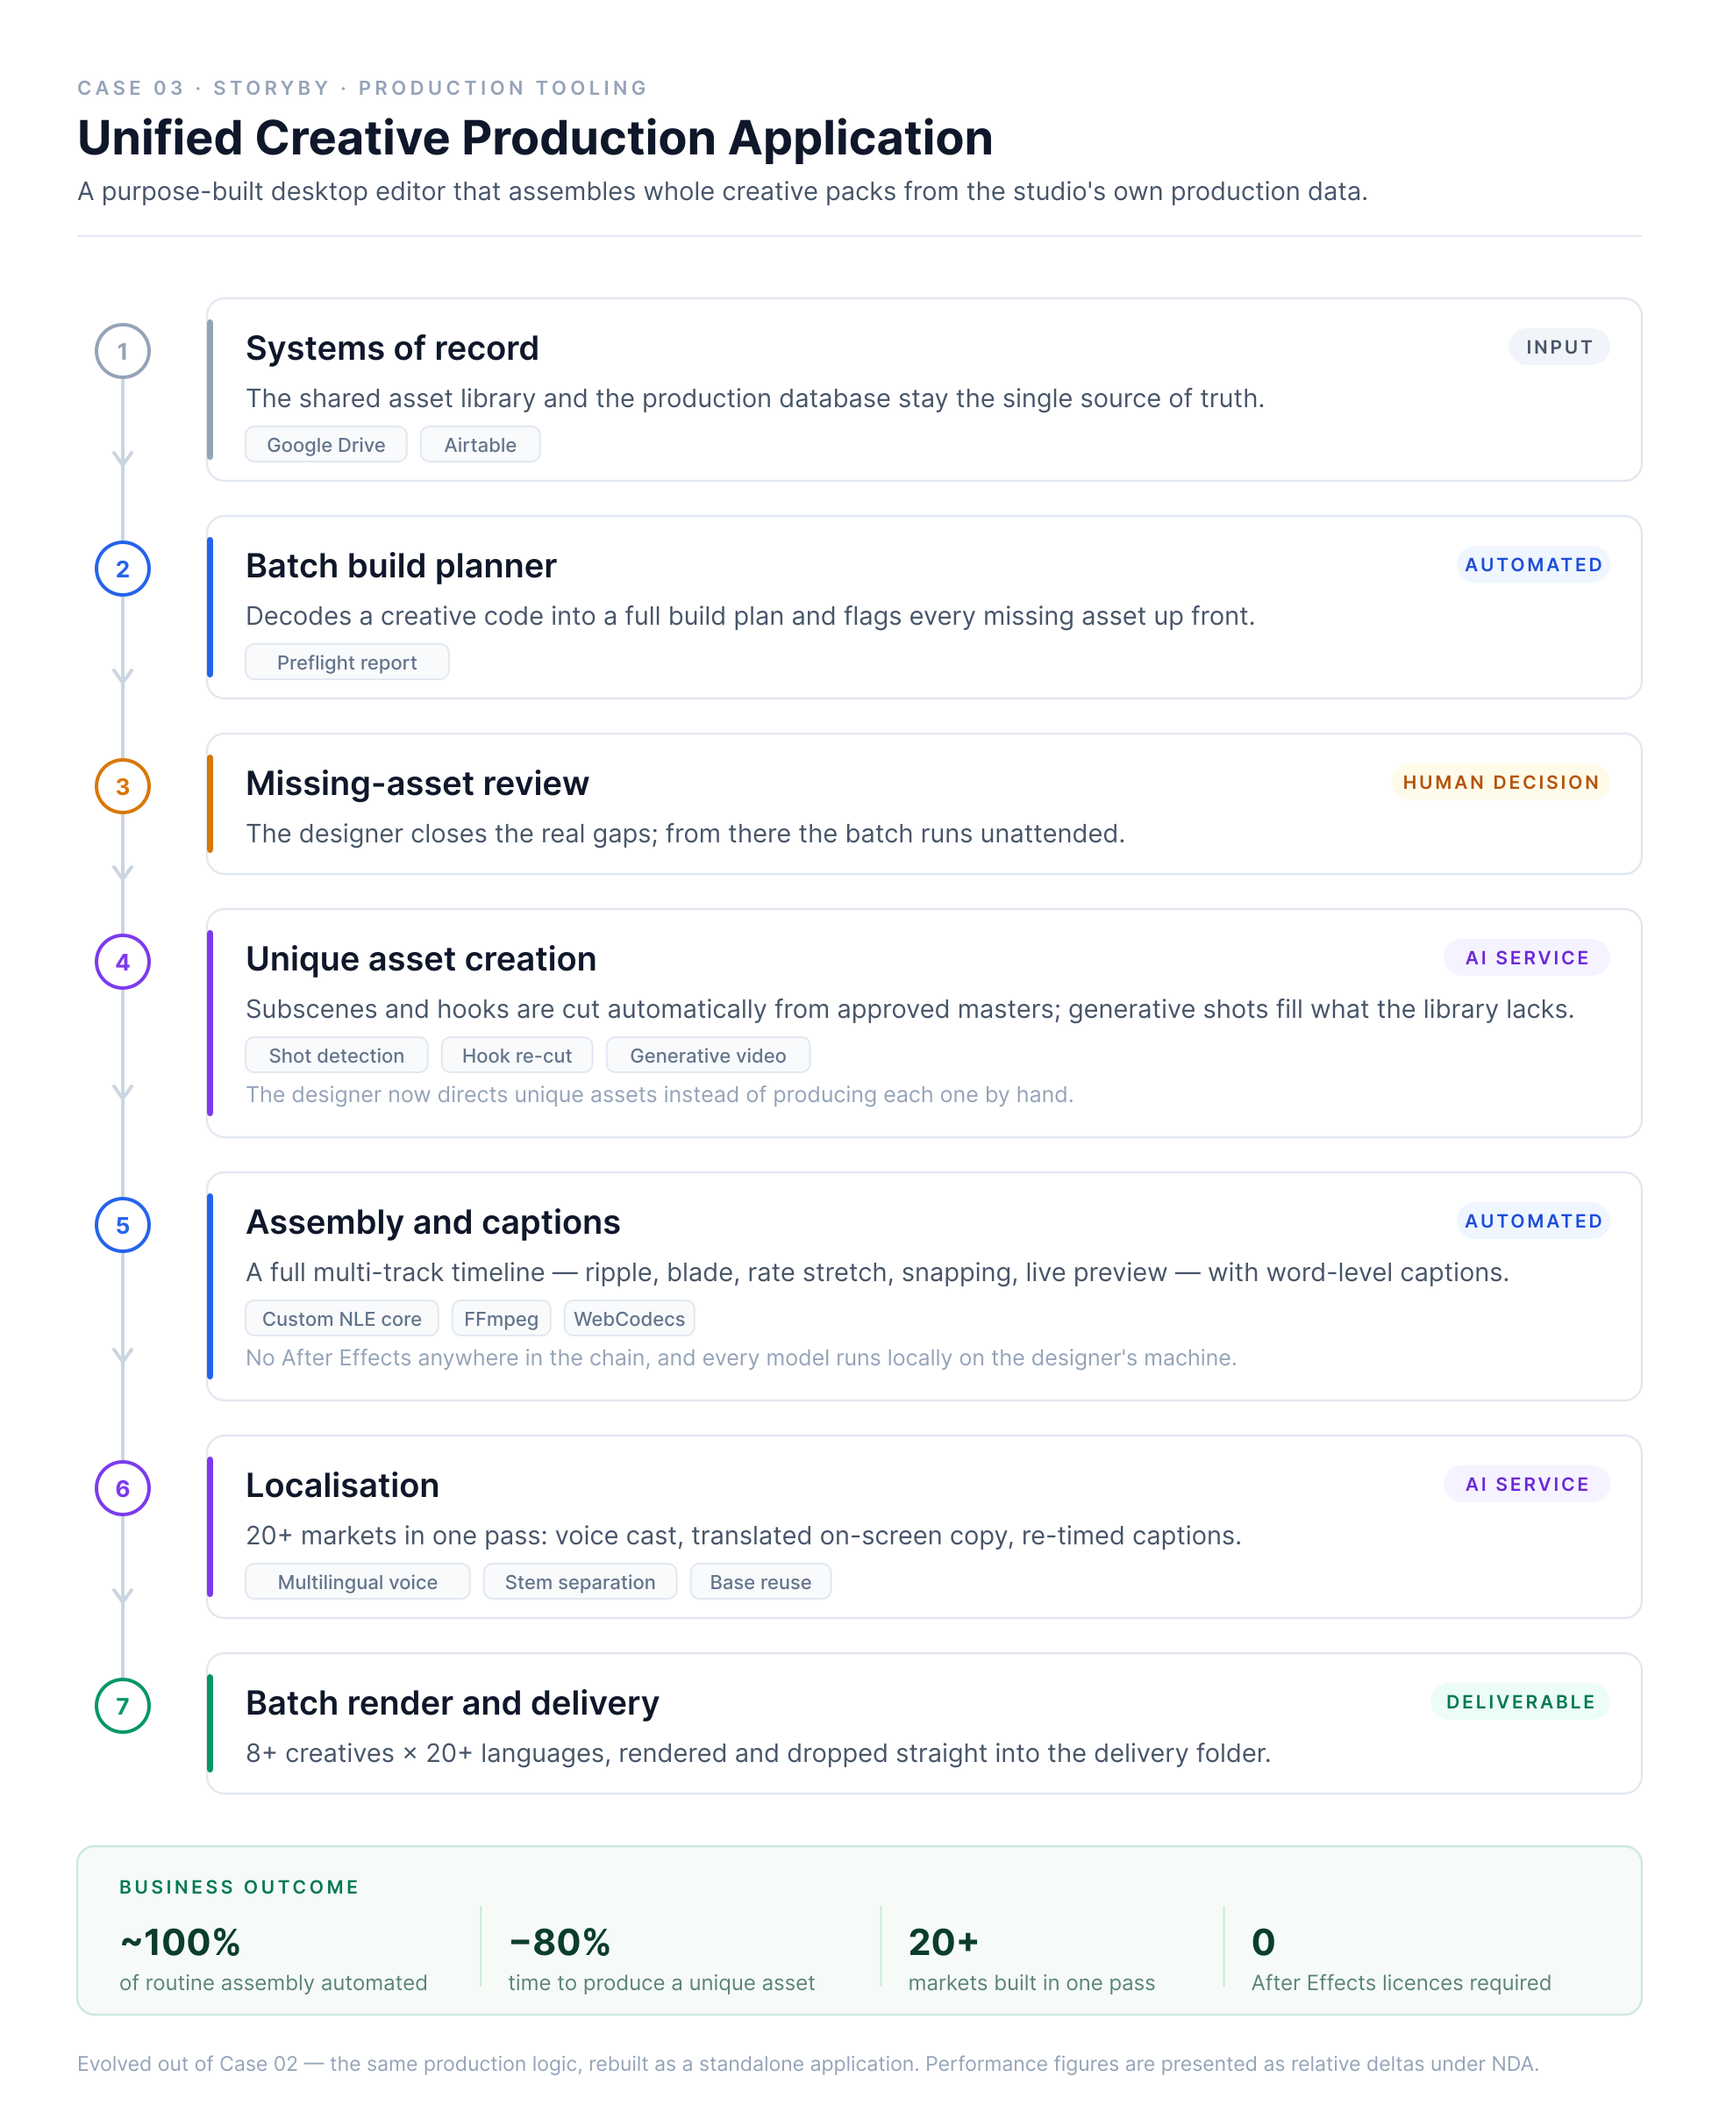
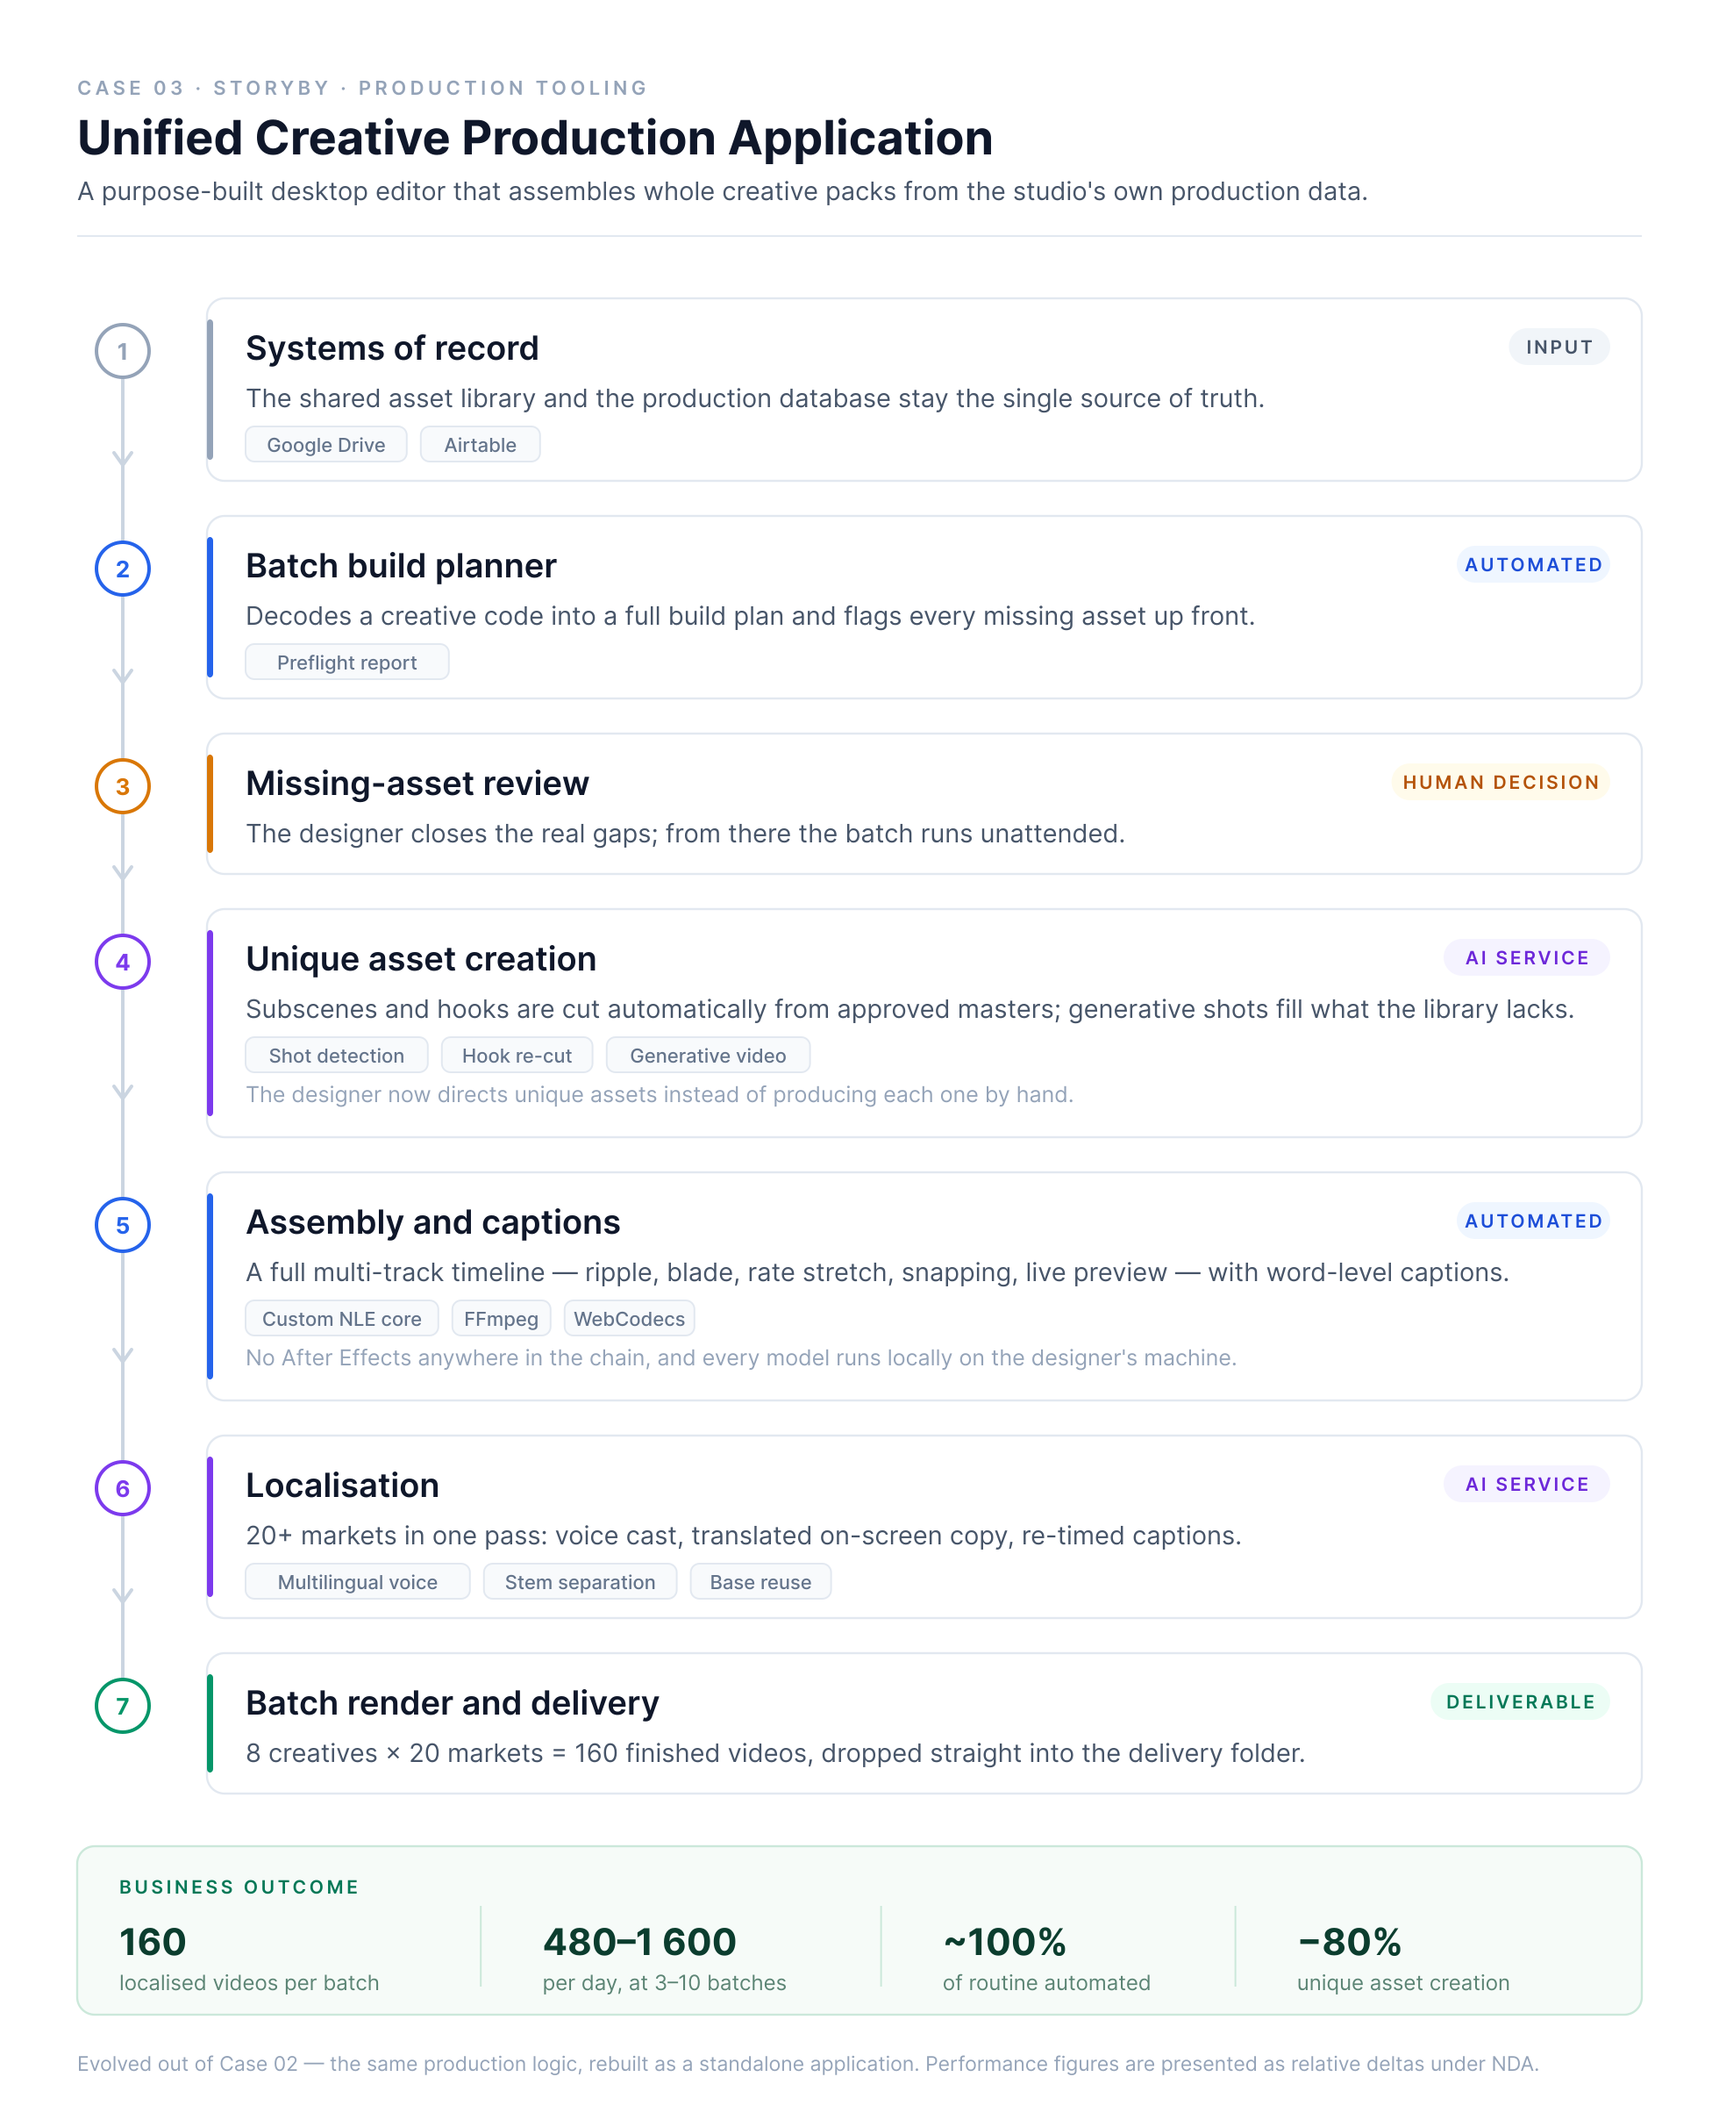
Outcome bands: absolute output volumes instead of percentages alone

diff --git a/case3_unified_application.py b/case3_unified_application.py
@@ -35,14 +35,14 @@ f.step(6, "Localisation",
        role="ai", chips=["Multilingual voice", "Stem separation", "Base reuse"])
 
 f.step(7, "Batch render and delivery",
-       "8+ creatives × 20+ languages, rendered and dropped straight into the delivery folder.",
+       "8 creatives × 20 markets = 160 finished videos, dropped straight into the delivery folder.",
        role="output")
 
 f.outcome([
-    ("~100%", "of routine assembly automated"),
-    ("−80%", "time to produce a unique asset"),
-    ("20+", "markets built in one pass"),
-    ("0", "After Effects licences required"),
+    ("160", "localised videos per batch"),
+    ("480–1 600", "per day, at 3–10 batches"),
+    ("~100%", "of routine automated"),
+    ("−80%", "unique asset creation"),
 ])
 f.footnote("Evolved out of Case 02 — the same production logic, rebuilt as a standalone application. "
            "Performance figures are presented as relative deltas under NDA.")

diff --git a/case2_ae_automation_suite.py b/case2_ae_automation_suite.py
@@ -39,10 +39,10 @@ f.step(7, "Variation pack",
        role="output")
 
 f.outcome([
-    ("20–100 min → minutes", "to build one creative pack"),
-    ("8 × 3–10", "variations per pack · packs per day"),
-    ("0", "designer minutes beyond review"),
-    ("100%", "editable native comps"),
+    ("24–80", "creatives per day"),
+    ("8 × 3–10", "per pack × packs per day"),
+    ("20–100 min → minutes", "per pack, hands-on"),
+    ("0", "renders lost to gaps"),
 ])
 f.footnote("Later superseded by Case 03, which rebuilt the same production logic outside After Effects. "
            "Performance figures are presented as relative deltas under NDA.")

diff --git a/case4_localization_engine.py b/case4_localization_engine.py
@@ -44,10 +44,10 @@ f.step(7, "Localised pack",
        role="output")
 
 f.outcome([
-    ("1.5 h → minutes", "5 markets by hand vs 20 automated"),
-    ("0", "designer hours per release"),
-    ("20+", "markets live on the day of the win"),
-    ("1:1", "audio fidelity on a re-cut"),
+    ("5 → 20+", "markets per creative"),
+    ("160", "dubs per pack, unattended"),
+    ("1.5 h → 0 min", "designer time per release"),
+    ("1:1", "fidelity on a re-cut"),
 ])
 f.footnote("Later folded into Case 03, where the same engine runs inside the application. "
            "Performance figures are presented as relative deltas under NDA.")

diff --git a/case5_semantic_dam.py b/case5_semantic_dam.py
@@ -38,9 +38,10 @@ f.step(7, "Handoff to the editor's NLE",
        role="output", chips=["EDL / FCPXML"])
 
 f.outcome([
-    ("−85%", "time spent hunting for a shot"),
-    ("−65%", "unit cost per finished video"),
-    ("< 1 s", "plain-language query across the archive"),
+    ("40% → 6%", "of edit time spent searching"),
+    ("$100 → $35", "cost per finished video"),
+    ("−85%", "shot-hunting time"),
+    ("< 1 s", "query across terabytes"),
 ])
 f.footnote("Performance figures are presented as relative deltas under NDA.")
 

diff --git a/case1_autonomous_pipeline.py b/case1_autonomous_pipeline.py
@@ -46,8 +46,8 @@ f.step(7, "Creative pack",
 f.outcome([
     ("4 h → < 3 min", "brief to first draft"),
     ("−80%", "unit cost per concept"),
-    ("Hundreds / week", "pipeline capacity, per designer"),
-    ("2 000+ / 6 000+", "concepts / creatives delivered"),
+    ("Hundreds / week", "capacity, per designer"),
+    ("2 000+ / 6 000+", "concepts / creatives in 6 months"),
 ])
 f.footnote("Performance figures are presented as relative deltas under NDA.")
 
